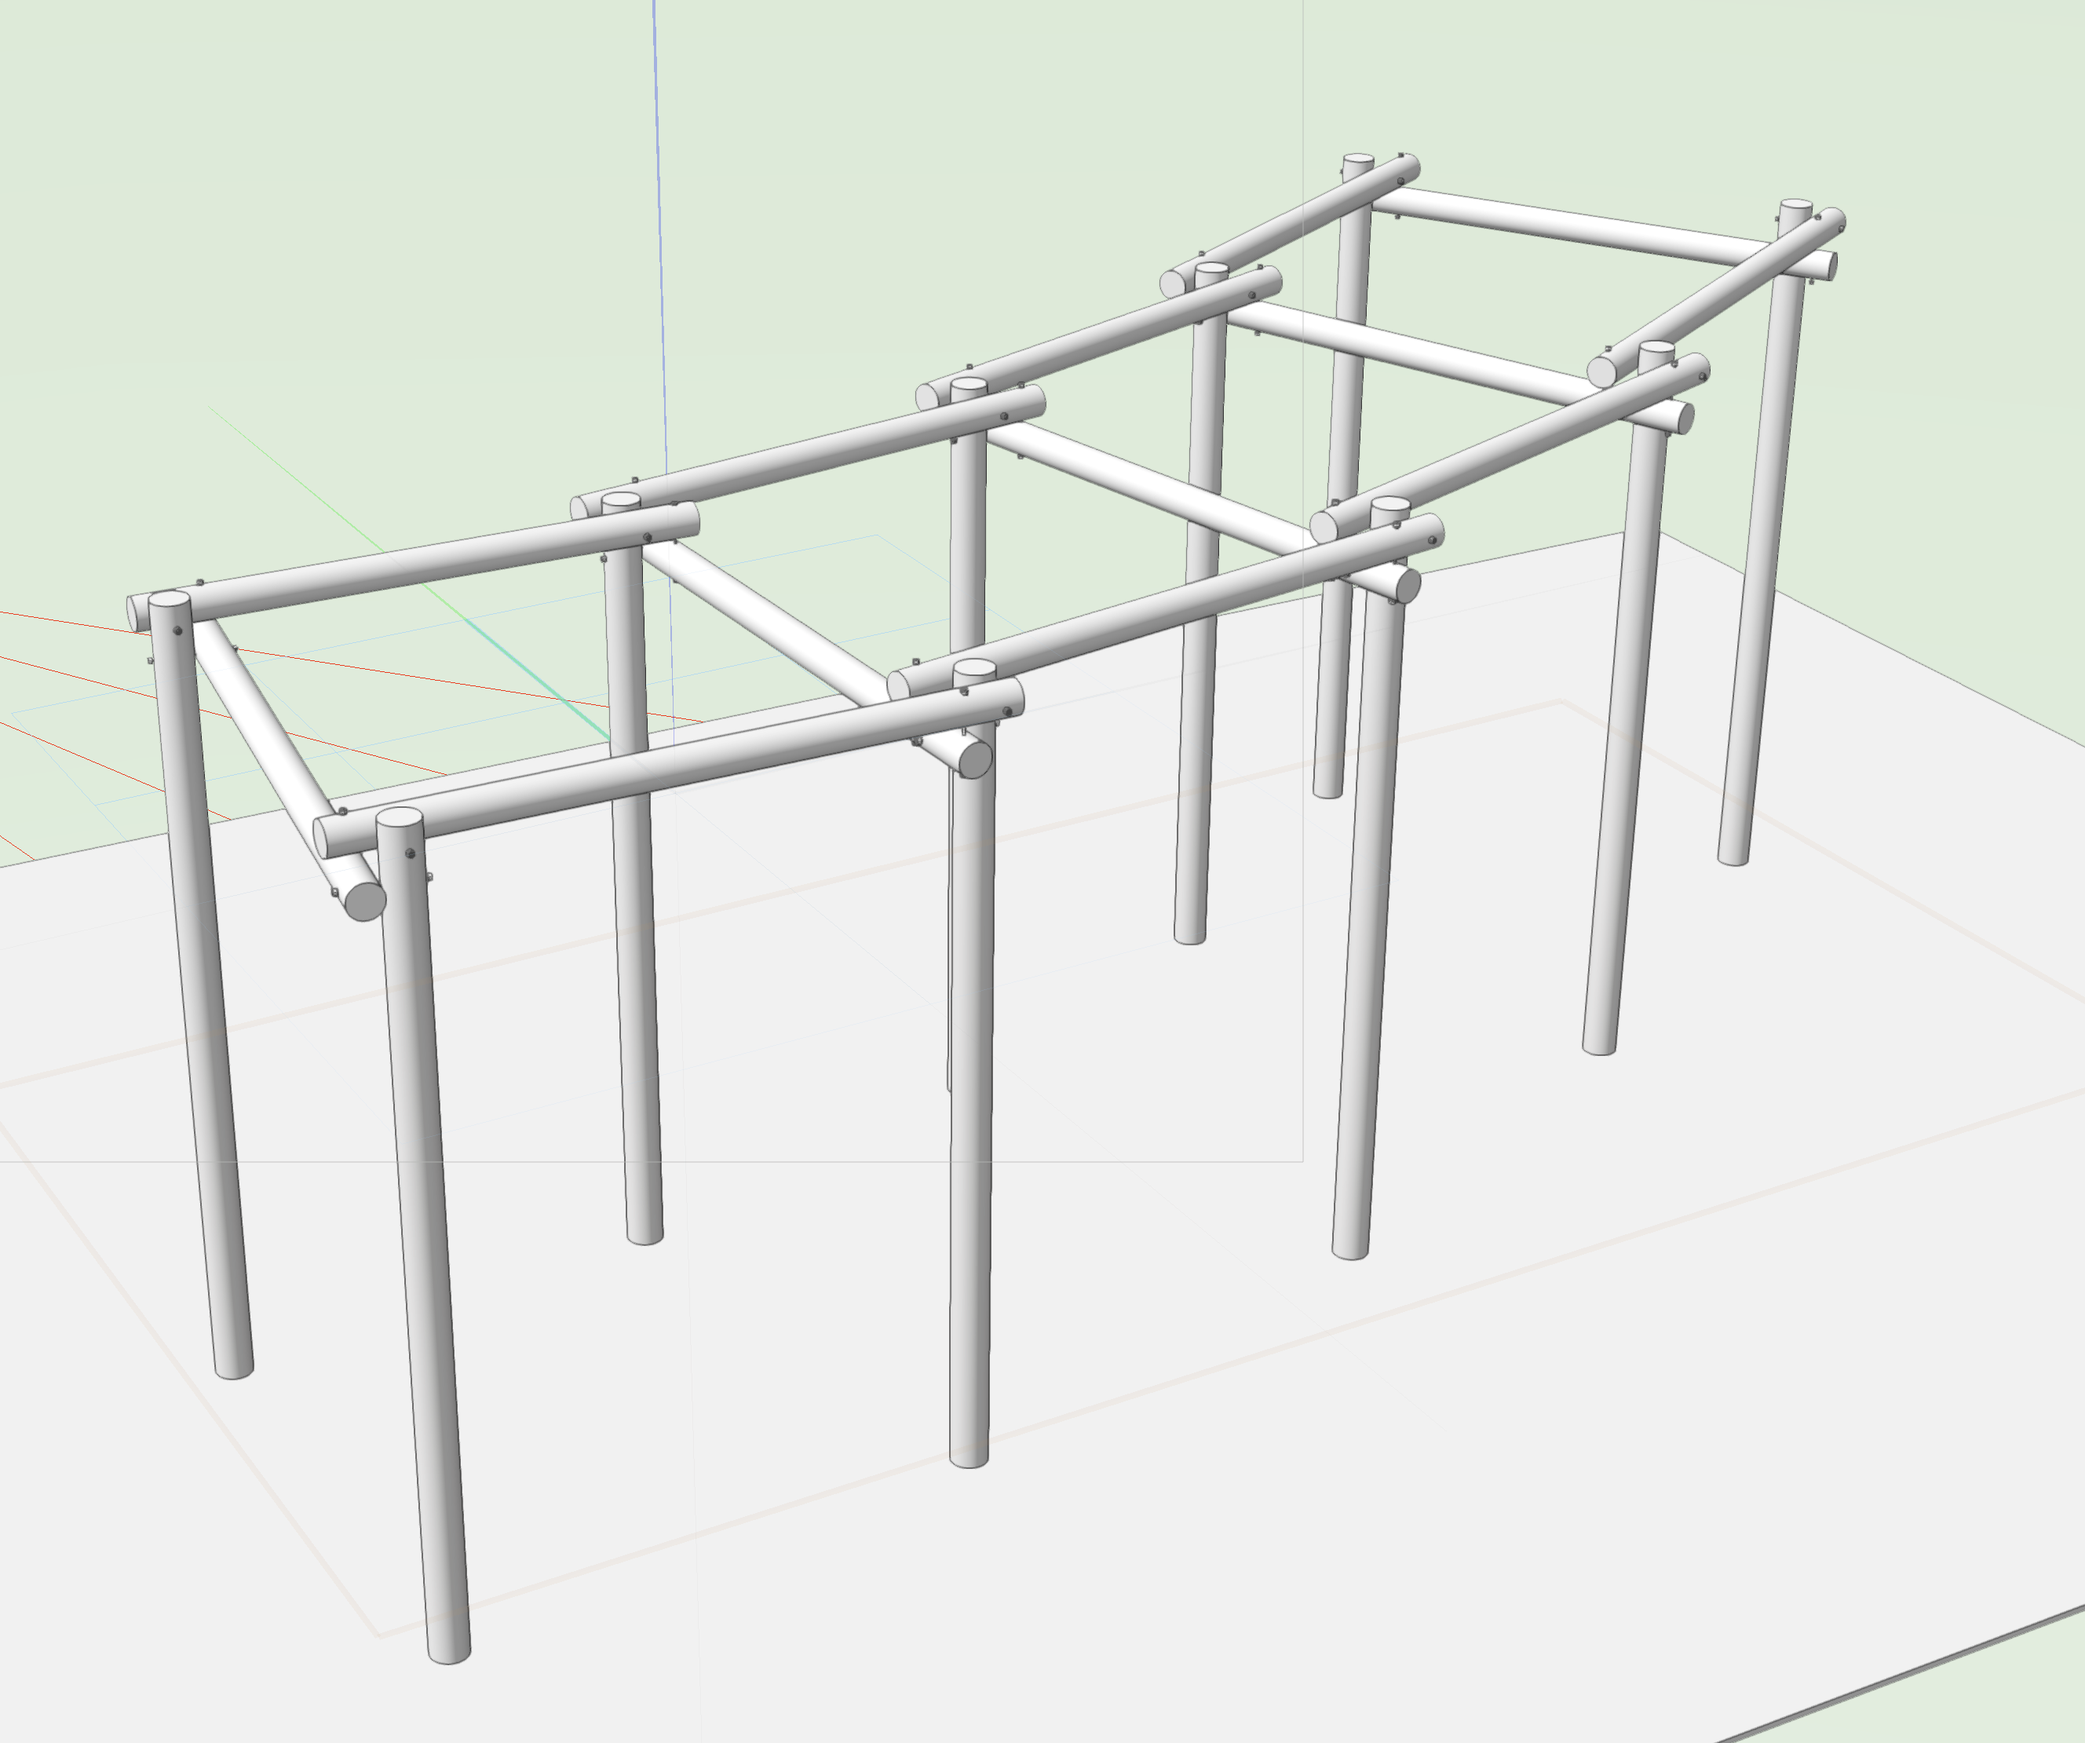
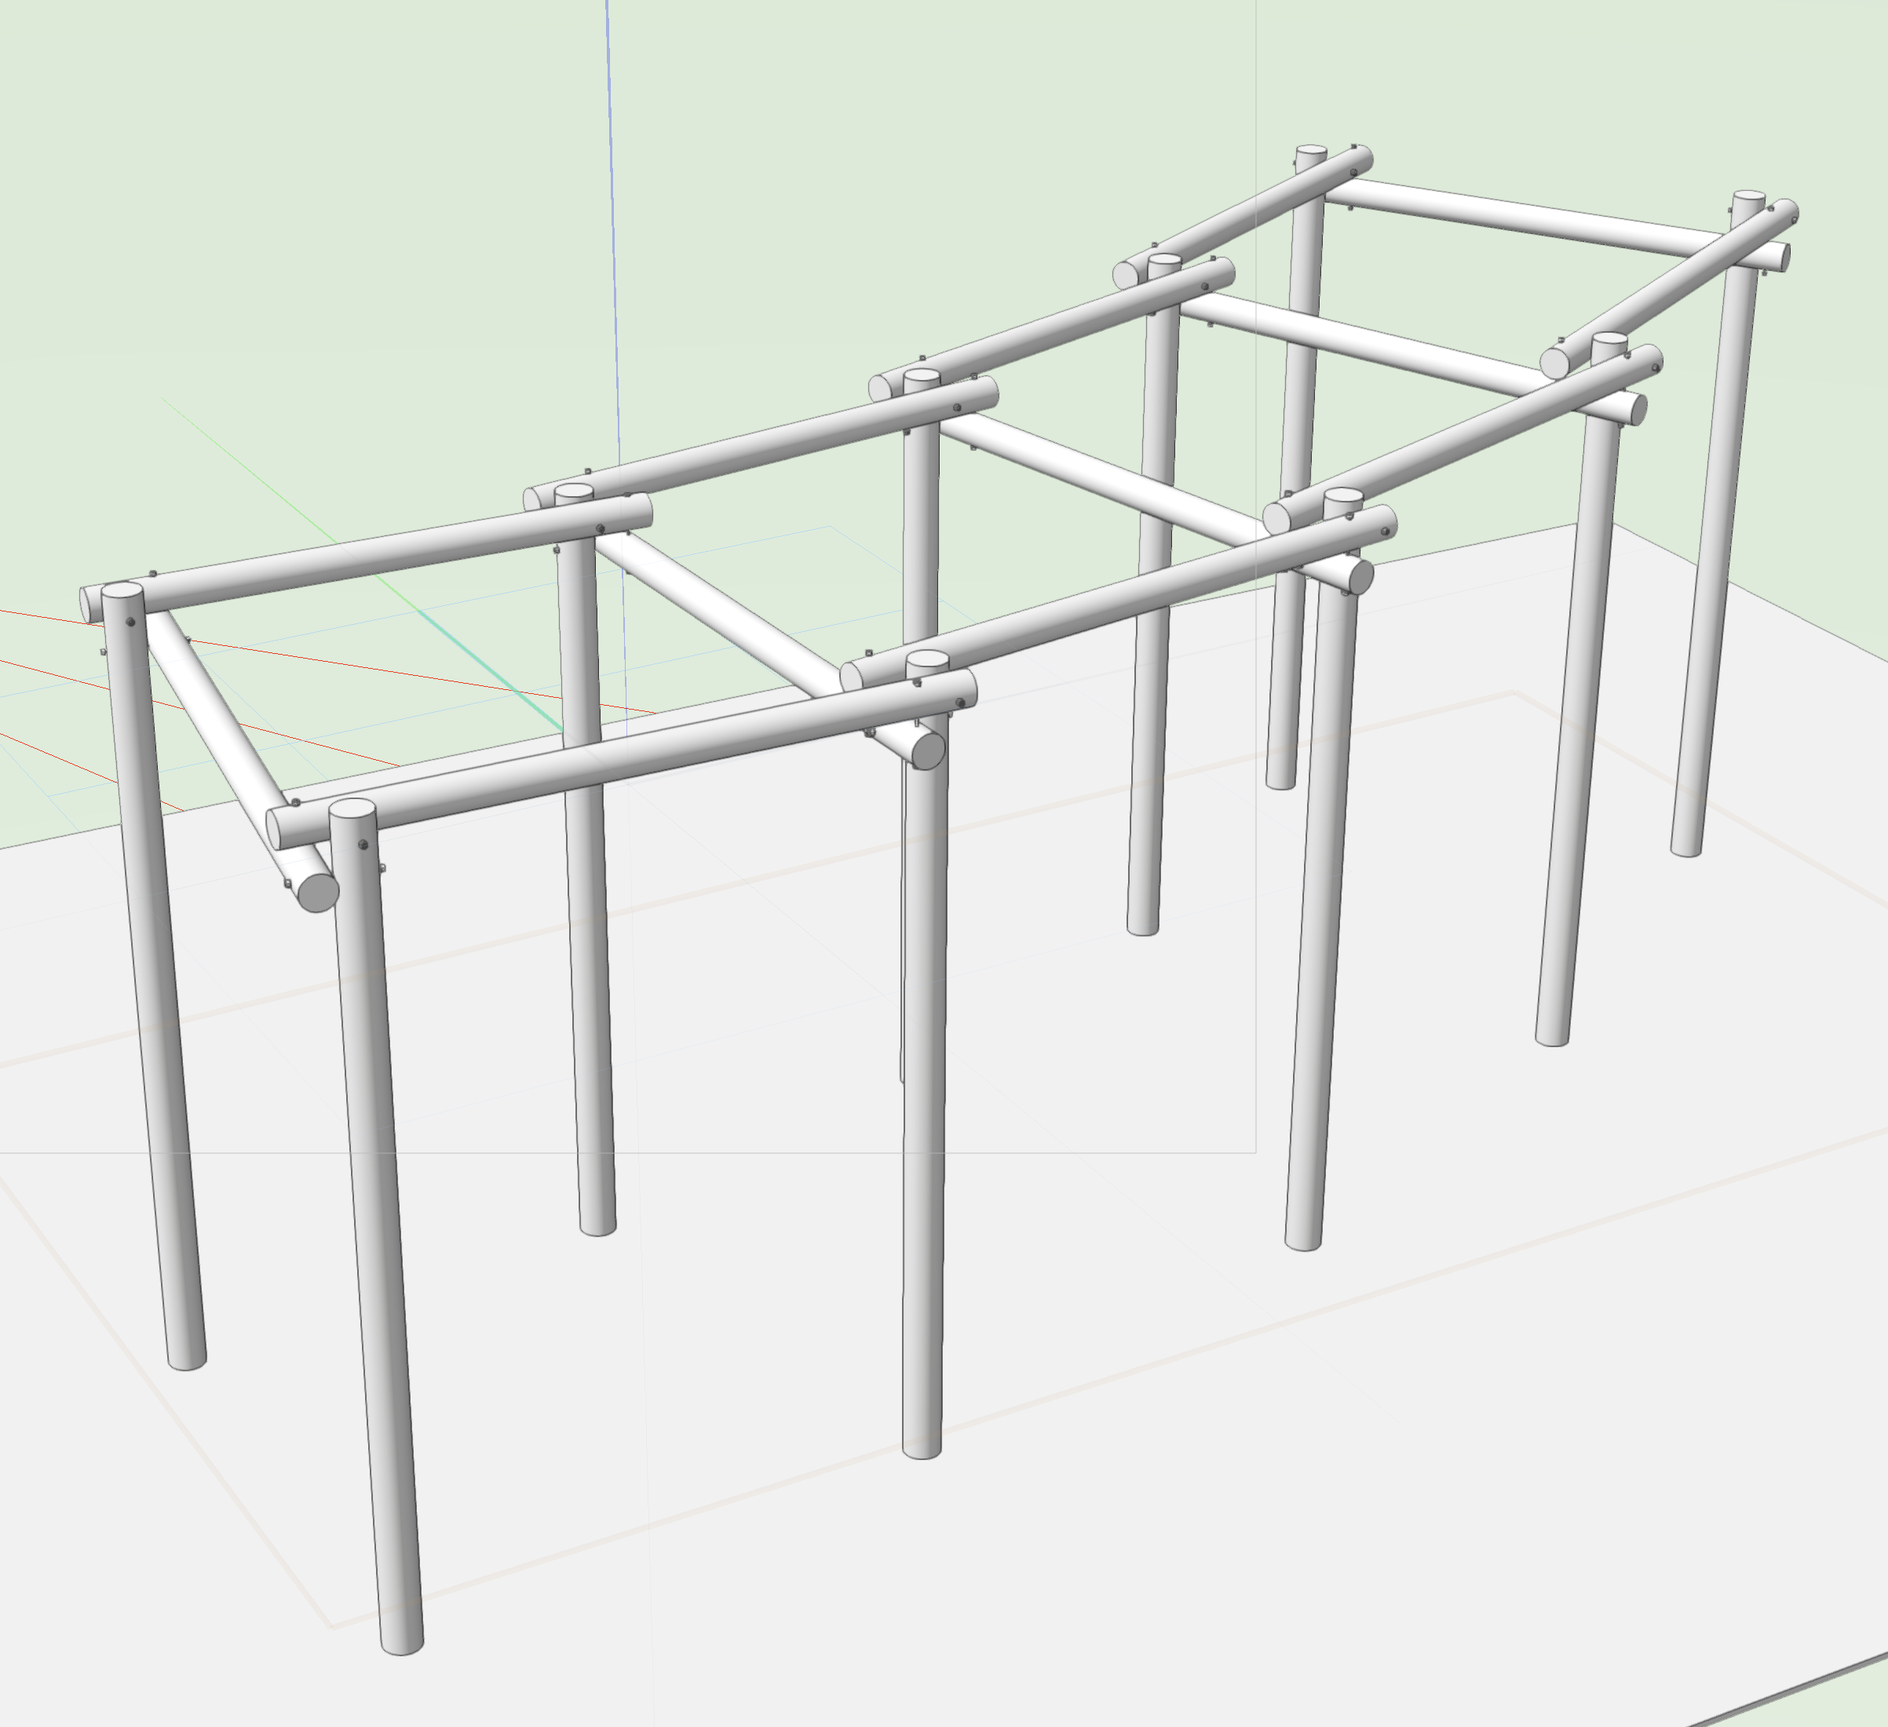
Pergola

diff --git a/posts/Pergola/Pergola 260324.html b/posts/Pergola/Pergola 260324.html
@@ -1,0 +1,76 @@
+<!DOCTYPE html>
+<html>
+<head>
+  <title>Pergola</title>
+</head>
+
+
+<link rel="stylesheet" href="../Styles.css">
+
+
+<body>
+
+<header>
+<h1> <a href="../../index.html" style="font-size:1.0em; text-decoration:none;">GREG PENOYRE</a> </h1>
+</header>
+
+<div>
+  <h3> 24.3.26 </h3>
+</div>
+
+<div>
+  <div class="lpane">
+  <h2>Chestnut Pergola</h2>
+  </p>
+  <p>
+    <p2>
+    Originally to be made of old hop poles this garden pergola was constructed in newly coppiced chestnut from local woods. It will support Wisteria, Clematis and other plants and was intended to attract more birds into the garden.
+    </p2>
+    <p>
+
+  <br> </br>
+  <img src="./images/IMG_8419.jpeg" style="width:530px;height:700px">
+  <p>
+  <p2>Following a curved path to a new garden gate</p2>
+<p>
+
+  <p>
+    <br> </br>
+    <img src="./images/Screenshot 2026-03-21 at 10.48.59.png" style="width:400px;height:400px">
+
+    <img src="./images/IMG_8467.jpeg" style="width:280px;height:400px">
+    <p>
+    <p2>
+    Testing the geometry and the connections.
+    </p2>
+    <p>
+
+  <p>
+    <br> </br>
+    <img src="./images/IMG_8395.jpeg" style="width:280px;height:400px">
+
+    <img src="./images/IMG_8398.jpeg" style="width:280px;height:400px">
+    <p>
+    <p2>
+    The posts are charred to resist rot where they will be buried.
+    </p2>
+    <p>
+
+  <p>
+    <br> </br>
+    <img src="./images/IMG_8421.jpeg" style="width:530px;height:700px">
+    <p>
+    <p2>The timbers are bolted together in three directions to make stiff connections and avoid cross bracing.</p2>
+  <p>
+
+  <p>
+    <br> </br>
+    <img src="./images/IMG_8413.jpeg" style="width:530px;height:700px">
+    <p>
+    <p2>Coming together.</p2>
+    <p>
+  <br> </br>
+
+<div>
+</body>
+</html>

diff --git a/index.html b/index.html
@@ -112,6 +112,16 @@ a{
   <h2> </h2>
   <p> </p>
 
+  <a href="./posts/Pergola/Pergola 260324.html">
+    <div class="container">
+      <img src="./posts/Pergola/images/IMG_8466 copy.jpg" alt="Avatar" class="image" style="width:100%">
+      <div class="middle">
+        <div class="imagetext">Pergola</div>
+        <div class="imagetext2">  3.26 </div>
+      </div>
+    </div>
+  </a><p> </p>
+
   <a href="./posts/Clouds/Clouds 251126.html">
     <div class="container">
       <img src="./posts/Clouds/Images/PHOTO-2025-08-01-17-22-43.jpg" alt="Avatar" class="image" style="width:100%">
